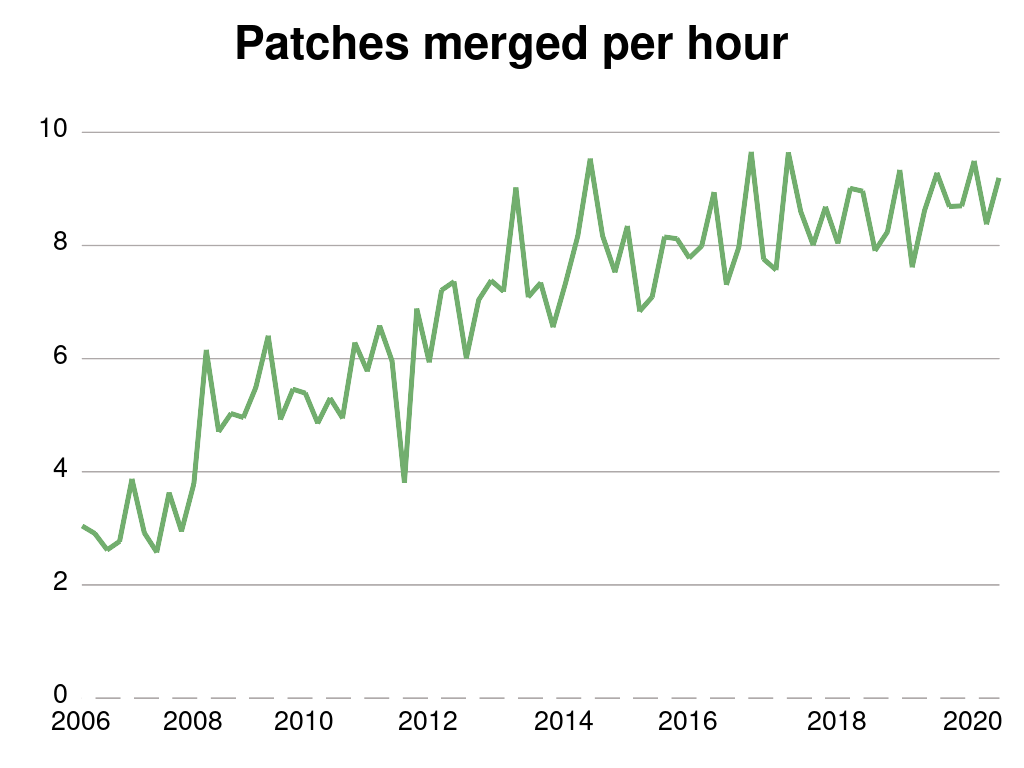
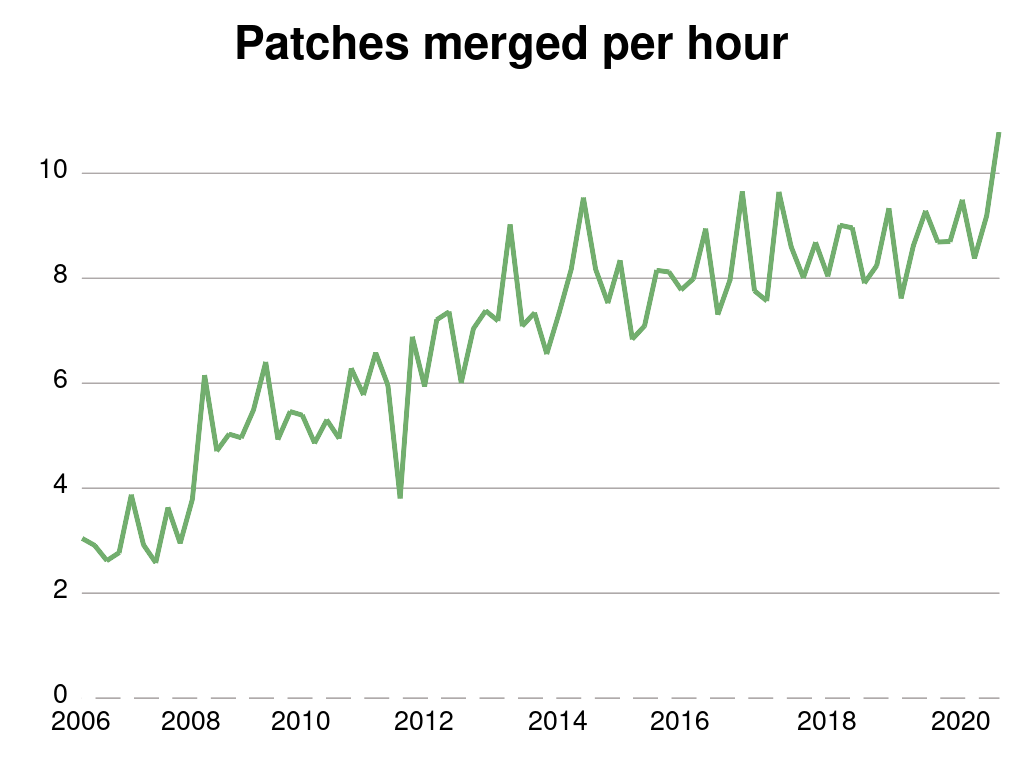
5.8 patches rate added to graph

diff --git a/graphs/patches_per_release/patches_per_hour.rb b/graphs/patches_per_release/patches_per_hour.rb
@@ -75,9 +75,8 @@ g.data(' ', [
 	# 2019
 	7.62,	8.62,	9.28,	8.69,	8.7,
 	# 2020
-	9.49,	8.38,	9.19],
+	9.49,	8.38,	9.19,	10.78],
 #	)
 	'#72AE6E') # green
-
 
 g.write('patches_per_hour.png')
